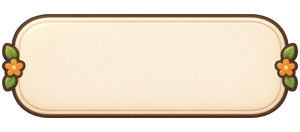
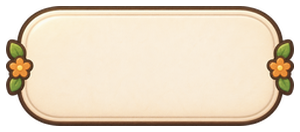
Add section 13 UI assets and tighten padding: panel

Changed region(s): [[0.0, 0.0303, 1.0, 0.9697]]

diff --git a/app/assets/ui/provenance/prompts-panel.md b/app/assets/ui/provenance/prompts-panel.md
@@ -100,3 +100,67 @@ Processing: Trim alpha margin and proportionally fit exact canvas without stretc
 
 Source: C:\Users\User\.codex\generated_images\01a16dc8-84e9-7e73-953c-375657e785a2\exec-9bd264ef-7d7b-4c7c-a502-e9506e7fc0ec.png
 
+
+# Section13 additions
+
+## panel/photo-well.png
+
+Final: 192x192 PNG.
+
+Method: built-in image_gen
+
+Prompt: Create ONE production UI bitmap asset: Empty pale beige inset photo well, rounded-square radius36 target pixels, very subtle INNER shadow only, completely plain center. No border decoration no icons. 9slice stretch-safe middle. Object nearly fills square with about6pixels clear surrounding margin.. Final canvas 192x192, requested aspect 192:192. Cozy Nekomobby UI family, warm cream #FFF8F0 brown #4A3B32 orange #F28B20 green #5E9B3F, softly rounded forms and restrained paper texture with upper-left light, very subtle downward shadow. Genuinely transparent outside artwork, smooth clean alpha edges without white fringe. Straight-on orthographic component, not a UI mockup. Absolutely NO text NO letters NO numerals NO labels. NO extra flowers NO extra leaves NO extra objects.
+
+Source: C:\Users\User\.codex\generated_images\01a16dc8-84e9-7e73-953c-375657e785a2\exec-4e694c6c-13d0-460d-b084-e8bd2aeb0026.png
+
+Processing: Trim source alpha margin and proportionally fit exact canvas with6px minimum clearance; crop visible alpha>8 boundary, preserve cap patches, resize only stretch bands into6px outer shadow margin
+
+## panel/info-table.png
+
+Final: 300x150 PNG.
+
+Method: built-in image_gen
+
+Prompt: Create ONE production UI bitmap asset: Empty warm cream rounded rectangular information table frame, radius30 target pixels, fine dark warm brown hairline border. NO rows NO text NO icons. Flat undecorated middle and edge bands for9slice. About6px transparent outer shadow clearance.. Final canvas 300x150, requested aspect 300:150. Cozy Nekomobby UI family, warm cream #FFF8F0 brown #4A3B32 orange #F28B20 green #5E9B3F, softly rounded forms and restrained paper texture with upper-left light, very subtle downward shadow. Genuinely transparent outside artwork, smooth clean alpha edges without white fringe. Straight-on orthographic component, not a UI mockup. Absolutely NO text NO letters NO numerals NO labels. NO extra flowers NO extra leaves NO extra objects.
+
+Source: C:\Users\User\.codex\generated_images\01a16dc8-84e9-7e73-953c-375657e785a2\exec-33078882-d130-4541-8c00-d88a71294ea5.png
+
+Processing: Trim source alpha margin and proportionally fit exact canvas with6px minimum clearance; crop visible alpha>8 boundary, preserve cap patches, resize only stretch bands into6px outer shadow margin
+
+## panel/speech-bubble.png
+
+Final: 300x180 PNG.
+
+Method: built-in image_gen
+
+Prompt: Create ONE production UI bitmap asset: Empty warm cream speech bubble rounded radius48 target pixels with ONE small tail at bottom center, subtle paper texture and low contrast downward shadow. No other objects or icons. About6px transparent margin. Vertical9slice plain central band; preserve full bottom tail.. Final canvas 300x180, requested aspect 300:180. Cozy Nekomobby UI family, warm cream #FFF8F0 brown #4A3B32 orange #F28B20 green #5E9B3F, softly rounded forms and restrained paper texture with upper-left light, very subtle downward shadow. Genuinely transparent outside artwork, smooth clean alpha edges without white fringe. Straight-on orthographic component, not a UI mockup. Absolutely NO text NO letters NO numerals NO labels. NO extra flowers NO extra leaves NO extra objects.
+
+Source: C:\Users\User\.codex\generated_images\01a16dc8-84e9-7e73-953c-375657e785a2\exec-06235bc3-f95c-4533-925d-364ced5d3b91.png
+
+Processing: Trim source alpha margin and proportionally fit exact canvas with6px minimum clearance; crop visible alpha>8 boundary, preserve cap patches, resize only stretch bands into6px outer shadow margin
+
+## panel/divider-h.png
+
+Final: 600x12 PNG.
+
+Method: procedural raster
+
+Prompt: Fine warm brown dotted horizontal line,3px dots at12px pitch, alpha90, center y6; transparent outside.
+
+Source: new technical raster
+
+Processing: Exact numeric RGBA bitmap, no app code changes
+
+## panel/divider-v.png
+
+Final: 12x300 PNG.
+
+Method: procedural raster
+
+Prompt: Fine vertical warm brown line x5..6, y6..293, alpha90; transparent outside.
+
+Source: new technical raster
+
+Processing: Exact numeric RGBA bitmap, no app code changes
+
+9slice padding normalization: see stretch-normalization.json. Exactfinal slice values: manifest.json. Original image corners and icon cap patches retained; only stretch bands resized.
